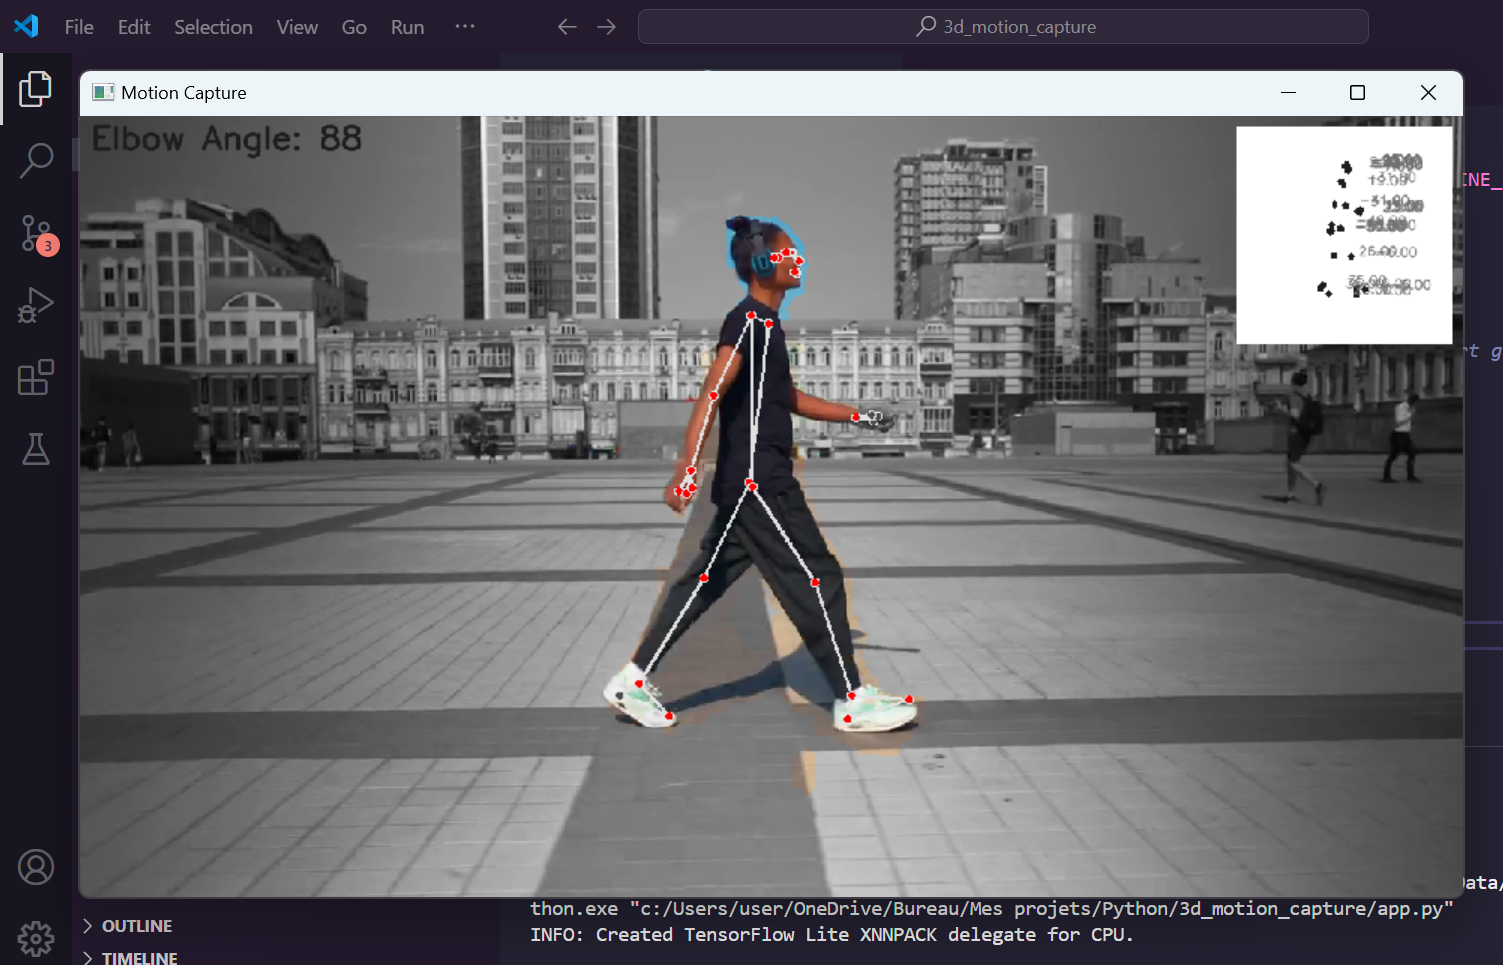
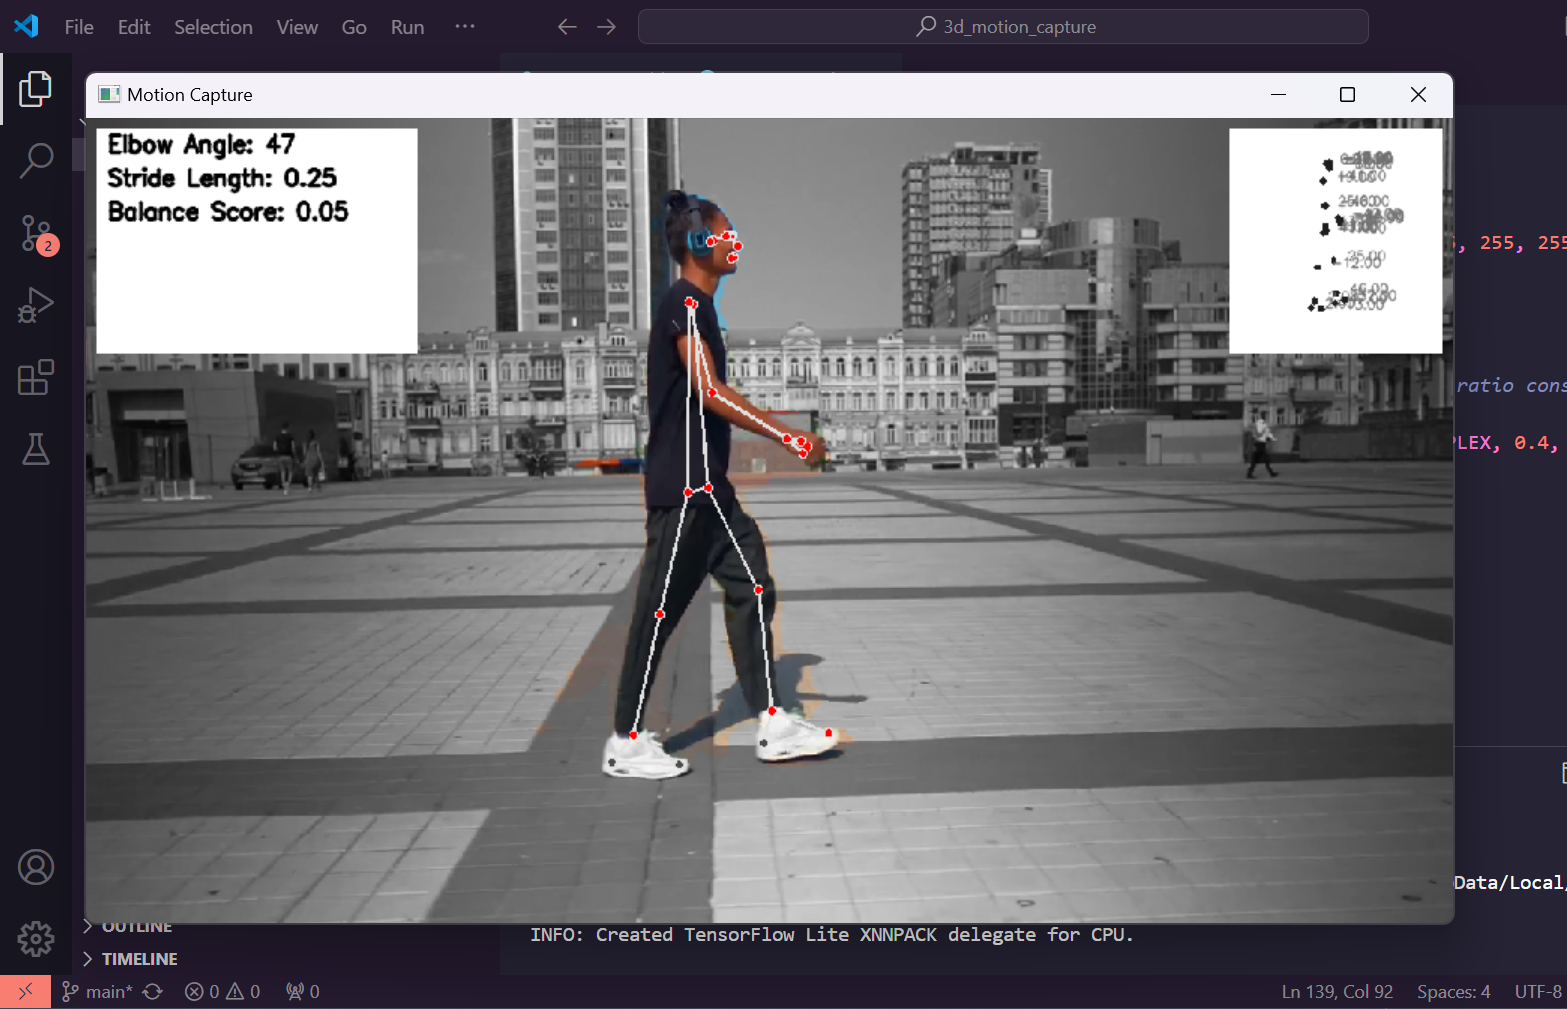
implement analytics

diff --git a/app.py b/app.py
@@ -27,29 +27,84 @@ def draw_3d_landmarks_on_box(image, landmarks, box_position):
         y = int(landmark.y * box_h)
         z = int(landmark.z * box_w)  # assuming box_w == box_h for aspect ratio consistency
         cv2.circle(box_image, (x, y), 3, (255, 0, 0), -1)
-        cv2.putText(box_image, f'  {z:.2f}', (x + 10, y), cv2.FONT_HERSHEY_SIMPLEX, 0.4, (51, 51, 255), 1, cv2.LINE_AA)
+        cv2.putText(box_image, f'  {z:.2f}', (x, y), cv2.FONT_HERSHEY_SIMPLEX, 0.4, (51, 51, 255), 1, cv2.LINE_AA)
 
     # Overlay the box image on the main image
     image[box_y:box_y+box_h, box_x:box_x+box_w] = box_image
 
 
-
-def draw_3d_landmarks_coords_on_box(image, landmarks, box_position):
-    h, w, _ = image.shape
-    box_w, box_h = 200, 200  # Size of the box
-    box_x, box_y = box_position
+# def draw_3d_landmarks_coords_on_box(image, landmarks, box_position):
+#     h, w, _ = image.shape
+#     box_w, box_h = 200, 200  # Size of the box
+#     box_x, box_y = box_position
     
-    # box_image
-    box_image = np.ones((box_h, box_w, 3), dtype=np.uint8) * np.array([255, 255, 255], dtype=np.uint8)
+#     # box_image
+#     box_image = np.ones((box_h, box_w, 3), dtype=np.uint8) * np.array([255, 255, 255], dtype=np.uint8)
     
-    for landmark in landmarks:
-        x = int(landmark.x * box_w)
-        y = int(landmark.y * box_h)
-        z = int(landmark.z * box_w)  # assuming box_w == box_h for aspect ratio consistency
-        cv2.putText(box_image, f'  {z:.2f}', (x, y), cv2.FONT_HERSHEY_SIMPLEX, 0.4, (255, 0, 0), 1, cv2.LINE_AA)
+#     for landmark in landmarks:
+#         x = int(landmark.x * box_w)
+#         y = int(landmark.y * box_h)
+#         z = int(landmark.z * box_w)  # assuming box_w == box_h for aspect ratio consistency
+#         cv2.putText(box_image, f'  {z:.2f}', (x, y), cv2.FONT_HERSHEY_SIMPLEX, 0.4, (255, 0, 0), 1, cv2.LINE_AA)
 
-    # Overlay the box image on the main image
-    image[box_y:box_y+box_h, box_x:box_x+box_w] = box_image
+#     # Overlay the box image on the main image
+#     image[box_y:box_y+box_h, box_x:box_x+box_w] = box_image
+
+
+def draw_analytics_overlay(landmarks, overlay_size=(300, 200)):
+    overlay_image = np.ones((overlay_size[1], overlay_size[0], 3), dtype=np.uint8) * np.array([255, 255, 255], dtype=np.uint8)
+    text_y = 20
+
+    ## Posture Analysis
+    # Calculate angle between shoulder, elbow, and wrist
+    shoulder = np.array([landmarks[mp_pose.PoseLandmark.LEFT_SHOULDER.value].x,
+                         landmarks[mp_pose.PoseLandmark.LEFT_SHOULDER.value].y,
+                         landmarks[mp_pose.PoseLandmark.LEFT_SHOULDER.value].z])
+
+    elbow = np.array([landmarks[mp_pose.PoseLandmark.LEFT_ELBOW.value].x,
+                      landmarks[mp_pose.PoseLandmark.LEFT_ELBOW.value].y,
+                      landmarks[mp_pose.PoseLandmark.LEFT_ELBOW.value].z])
+
+    wrist = np.array([landmarks[mp_pose.PoseLandmark.LEFT_WRIST.value].x,
+                      landmarks[mp_pose.PoseLandmark.LEFT_WRIST.value].y,
+                      landmarks[mp_pose.PoseLandmark.LEFT_WRIST.value].z])
+
+    angle = np.arccos(np.dot(elbow-shoulder, wrist-elbow) /
+                      (np.linalg.norm(elbow-shoulder) * np.linalg.norm(wrist-elbow)))
+
+    angle_deg = np.degrees(angle)
+    cv2.putText(overlay_image, f'Elbow Angle: {int(angle_deg)}', (10, text_y), 
+                cv2.FONT_HERSHEY_SIMPLEX, 0.7, (0, 0, 0), 2, cv2.LINE_AA)
+    text_y += 30
+
+    ## Gait Analysis
+    # Calculate stride length
+    left_heel = landmarks[mp_pose.PoseLandmark.LEFT_HEEL.value]
+    right_heel = landmarks[mp_pose.PoseLandmark.RIGHT_HEEL.value]
+    stride_length = np.linalg.norm([left_heel.x - right_heel.x, left_heel.y - right_heel.y, left_heel.z - right_heel.z])
+    cv2.putText(overlay_image, f'Stride Length: {stride_length:.2f}', (10, text_y), 
+                cv2.FONT_HERSHEY_SIMPLEX, 0.7, (0, 0, 0), 2, cv2.LINE_AA)
+    text_y += 30
+
+    ## Balance Analysis
+    # Calculate center of mass
+    com_x = sum([lmk.x for lmk in landmarks]) / len(landmarks)
+    com_y = sum([lmk.y for lmk in landmarks]) / len(landmarks)
+    com_z = sum([lmk.z for lmk in landmarks]) / len(landmarks)
+    com = np.array([com_x, com_y, com_z])
+
+    # Calculate distance from center of mass to left and right ankles
+    left_ankle = landmarks[mp_pose.PoseLandmark.LEFT_ANKLE.value]
+    right_ankle = landmarks[mp_pose.PoseLandmark.RIGHT_ANKLE.value]
+    left_ankle_dist = np.linalg.norm([left_ankle.x - com_x, left_ankle.y - com_y, left_ankle.z - com_z])
+    right_ankle_dist = np.linalg.norm([right_ankle.x - com_x, right_ankle.y - com_y, right_ankle.z - com_z])
+
+    # Calculate balance score
+    balance_score = abs(left_ankle_dist - right_ankle_dist)
+    cv2.putText(overlay_image, f'Balance Score: {balance_score:.2f}', (10, text_y), 
+                cv2.FONT_HERSHEY_SIMPLEX, 0.7, (0, 0, 0), 2, cv2.LINE_AA)
+
+    return overlay_image
 
 def main():
     frame_count = 0
@@ -83,26 +138,9 @@ def main():
 
             # draw_3d_landmarks_coords_on_box(frame, landmarks, (frame.shape[1] - 460, 10))
 
-            # Perform analysis (posture analysis, gait detection)
-            # Calculate angle between shoulder, elbow, and wrist
-            shoulder = np.array([landmarks[mp_pose.PoseLandmark.LEFT_SHOULDER.value].x,
-                                 landmarks[mp_pose.PoseLandmark.LEFT_SHOULDER.value].y,
-                                 landmarks[mp_pose.PoseLandmark.LEFT_SHOULDER.value].z])
-
-            elbow = np.array([landmarks[mp_pose.PoseLandmark.LEFT_ELBOW.value].x,
-                              landmarks[mp_pose.PoseLandmark.LEFT_ELBOW.value].y,
-                              landmarks[mp_pose.PoseLandmark.LEFT_ELBOW.value].z])
-
-            wrist = np.array([landmarks[mp_pose.PoseLandmark.LEFT_WRIST.value].x,
-                              landmarks[mp_pose.PoseLandmark.LEFT_WRIST.value].y,
-                              landmarks[mp_pose.PoseLandmark.LEFT_WRIST.value].z])
-
-            angle = np.arccos(np.dot(elbow-shoulder, wrist-elbow) /
-                              (np.linalg.norm(elbow-shoulder) * np.linalg.norm(wrist-elbow)))
-
-            angle_deg = np.degrees(angle)
-            cv2.putText(frame, f'Elbow Angle: {int(angle_deg)}', (10, 30), 
-                        cv2.FONT_HERSHEY_SIMPLEX, 1, (255, 0, 0), 2, cv2.LINE_AA)
+            # Draw analytics overlay
+            analytics_overlay = draw_analytics_overlay(landmarks)
+            frame[10:10+analytics_overlay.shape[0], 10:10+analytics_overlay.shape[1]] = analytics_overlay
 
         # Apply grayscale to the background
         mask = results_segmentation.segmentation_mask > 0.1

diff --git a/README.md b/README.md
@@ -1,4 +1,4 @@
-Realtime Person Motion Capture in video
+Realtime Person Motion Capture and Analysis in video
 
 ![Demo](demo.png)
 
@@ -9,7 +9,9 @@ This project leverages Mediapipe and OpenCV to capture and analyze human poses i
 - Pose detection using Mediapipe's Pose solution.
 - Selfie segmentation to apply grayscale to the background.
 - Overlay of 3D landmarks in a white box on the video frame.
-- Calculation and display of the elbow angle.
+- Elbow Angle : We calculate the elbow angle using the 3D coordinates of the shoulder, elbow, and wrist landmarks.
+- Gait Analysis: We calculate the stride length by measuring the distance between the left and right heels.
+- Balance Analysis: We calculate the center of mass (COM) of the body by taking the average of all landmark coordinates. Then, we measure the distance from the COM to the left and right ankles. The difference between these distances is used as a balance score, where a smaller value indicates better balance.
 
 
 ## Requirements
